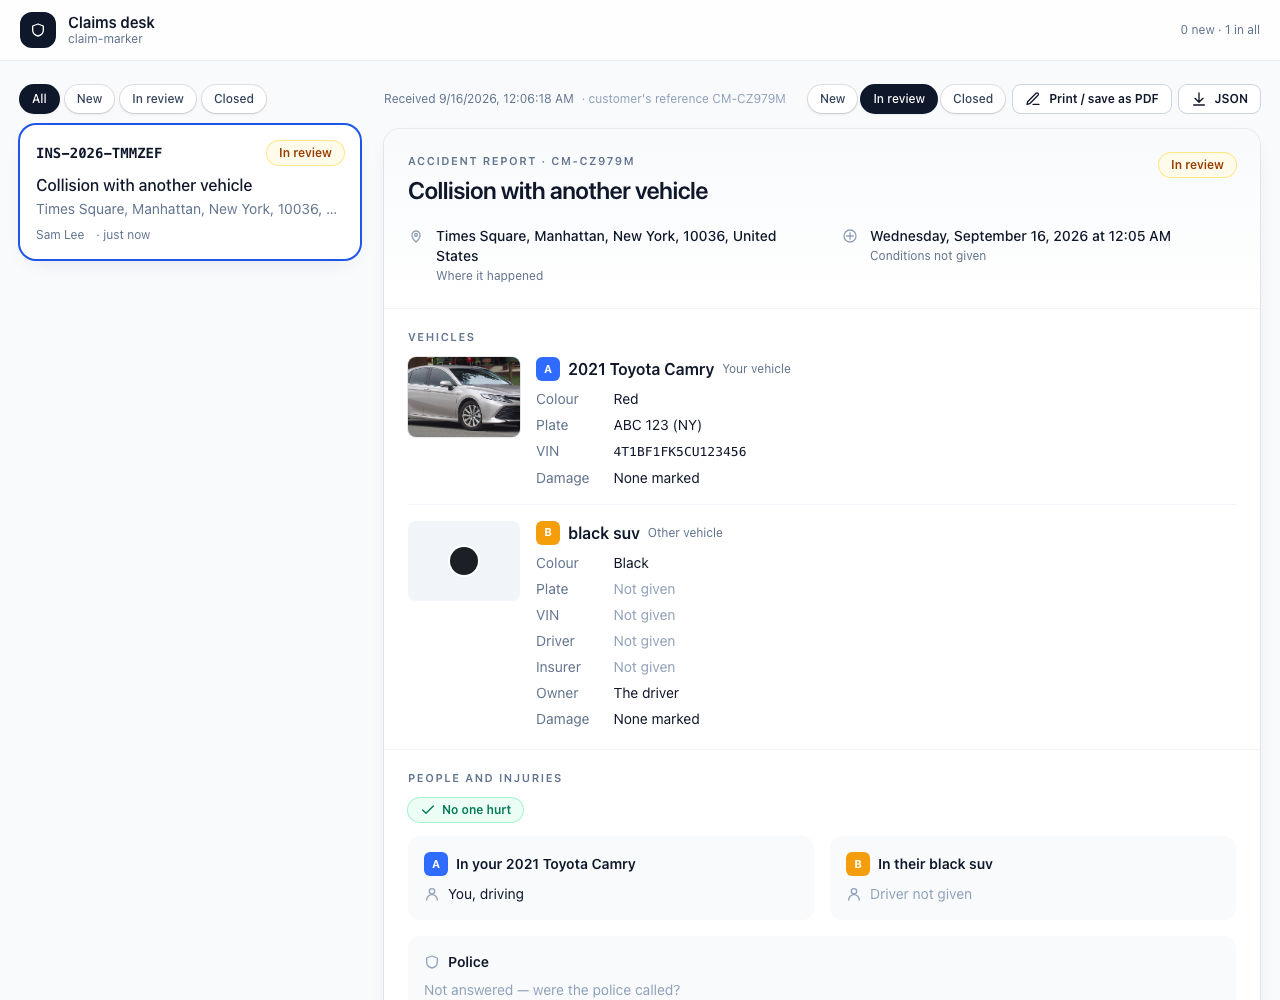
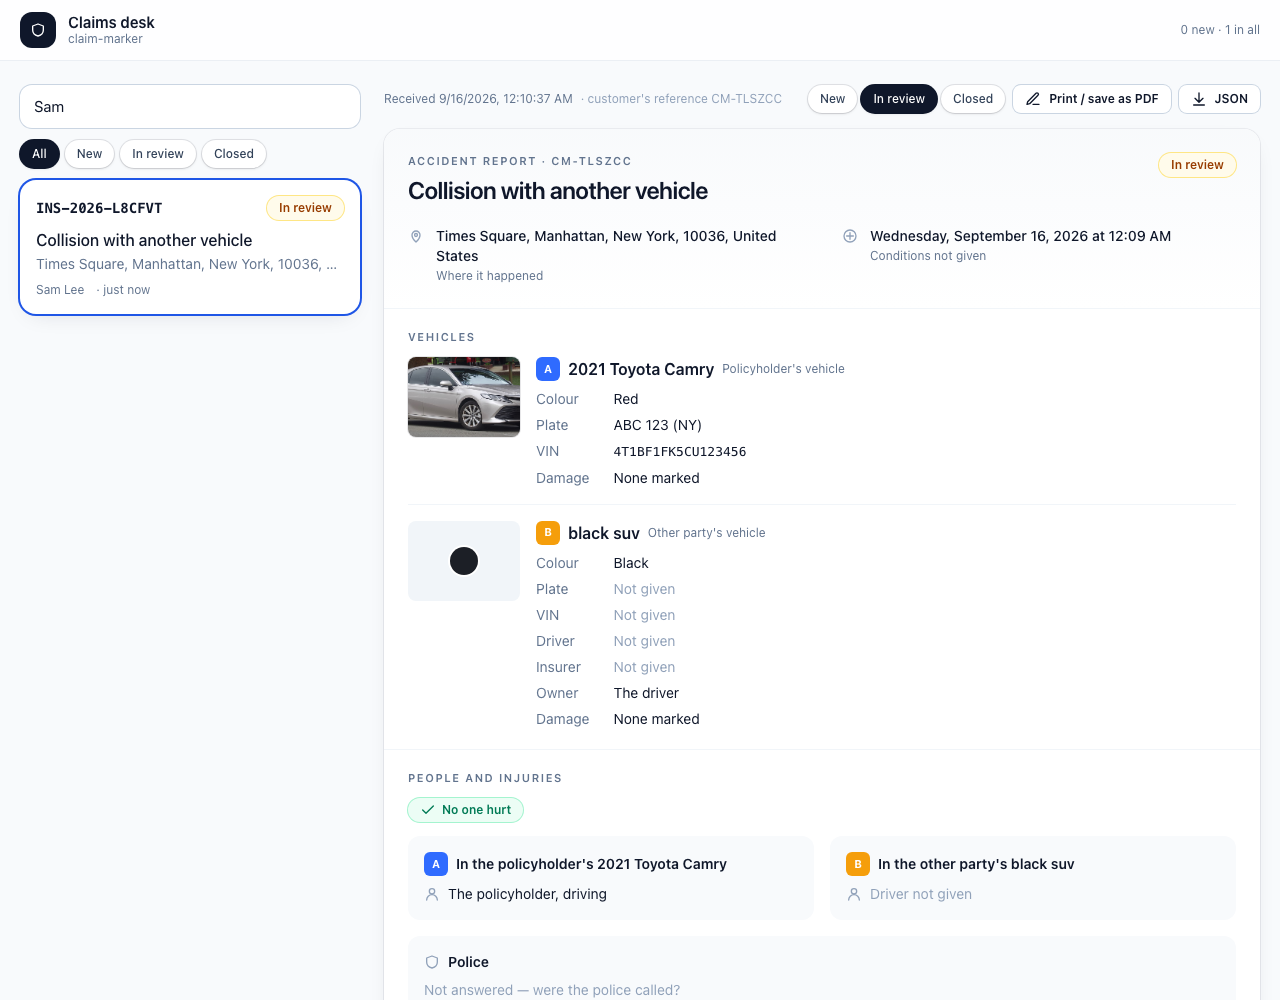
Desk voice: the same document, read by the other person
`claim/1` is read twice — once by the customer filling it in, once by the
adjuster working it — and until now it spoke to both as if they were the
customer: "You, driving your Camry", "Your vehicle". On an adjuster's screen
that is wrong twice over: the person is not in the room, and they are one of
several parties whose accounts are being weighed.

`src/claim/describe.ts` now takes a `Voice`, defaulting to 'customer'
everywhere, so the steps and the review page are untouched by construction.
`ReportDocument` takes `voice` and the claims desk is its one caller with
'desk', where "your"/"their" becomes "the policyholder's"/"the other party's"
and "You, driving" becomes "The policyholder, driving". `gaps()` deliberately
has no voice: it only ever runs on the customer's own review page.

The desk also gets a search box. An adjuster with a caller on the line has a
name, a plate or a street, almost never a reference, so it searches all of them
plus the customer's own reference; Enter opens the first match, Escape clears.
The server's `summarise()` gained `plates`, which is the only reason an inbox
row carries them.

diff --git a/src/app/ReportDocument.tsx b/src/app/ReportDocument.tsx
@@ -1,7 +1,7 @@
 import { Fragment, useRef, type ReactNode, type RefObject } from 'react'
 import { useClaim, type Step } from '../claim/store'
-import { KIND_INFO, ROLE_COLOR, type Claim, type ClaimVehicle, type Person } from '../claim/schema'
-import { conditionLabels, contactLine, driverName, driverShort, gaps, personLine, vehicleName, whose, yesNo } from '../claim/describe'
+import { KIND_INFO, ROLE_COLOR, newPerson, type Claim, type ClaimVehicle, type Person } from '../claim/schema'
+import { cap, conditionLabels, contactLine, driverName, driverShort, gaps, ownerLabel, personLine, vehicleName, whose, yesNo, type Voice } from '../claim/describe'
 import type { LngLat } from '../geo'
 import { MapScene, type MapSceneHandle } from '../map/MapScene'
 import { DamageMarker, type DamageMarkerHandle } from '../marker/DamageMarker'
@@ -110,6 +110,8 @@ export type ReportDocumentProps = {
   markers?: RefObject<Map<string, DamageMarkerHandle>>
   /** what an adjuster sees instead of the draft badge */
   badge?: ReactNode
+  /** who is reading: the customer ("your Camry") or the claims desk ("the policyholder's") */
+  voice?: Voice
 }
 
 /**
@@ -117,7 +119,7 @@ export type ReportDocumentProps = {
  * customer reads it on the review step with a way back into every section; the insurer
  * reads the same component on the claims desk with none.
  */
-export function ReportDocument({ claim, edit = false, mapRef, markers, badge }: ReportDocumentProps) {
+export function ReportDocument({ claim, edit = false, mapRef, markers, badge, voice = 'customer' }: ReportDocumentProps) {
   const ownMarkers = useRef(new Map<string, DamageMarkerHandle>())
   const marks = markers ?? ownMarkers
   const play = usePlayback(claim.vehicles)
@@ -219,7 +221,7 @@ export function ReportDocument({ claim, edit = false, mapRef, markers, badge }: 
             ]
             if (v.role !== 'insured') {
               rows.push(
-                ['Driver', given(driverName(d) ? `${driverName(d)}${d && contactLine(d) ? ` · ${contactLine(d)}` : ''}` : null)],
+                ['Driver', given(driverName(d, voice) ? `${driverName(d, voice)}${d && contactLine(d) ? ` · ${contactLine(d)}` : ''}` : null)],
                 ['Insurer', given(v.insurer ? `${v.insurer}${v.policy ? `, policy ${v.policy}` : ''}` : null)],
                 ['Owner', v.owner || 'The driver'],
               )
@@ -240,7 +242,7 @@ export function ReportDocument({ claim, edit = false, mapRef, markers, badge }: 
                   <div className="mb-2 flex flex-wrap items-center gap-2">
                     <Tag v={v} />
                     <span className="font-semibold">{vehicleName(v)}</span>
-                    <span className="text-xs text-slate-500">{v.role === 'insured' ? 'Your vehicle' : 'Other vehicle'}</span>
+                    <span className="text-xs text-slate-500">{ownerLabel(v, voice)}</span>
                   </div>
                   <Rows items={rows} />
                 </div>
@@ -271,7 +273,7 @@ export function ReportDocument({ claim, edit = false, mapRef, markers, badge }: 
               <div key={v.id} className="rounded-xl bg-slate-50 p-4">
                 <div className="mb-2 flex items-center gap-2 text-sm font-semibold">
                   <Tag v={v} />
-                  In {whose(v)} {vehicleName(v)}
+                  In {whose(v, voice)} {vehicleName(v)}
                 </div>
                 <ul className="space-y-2 text-sm">
                   <li className="flex items-start gap-2">
@@ -281,12 +283,12 @@ export function ReportDocument({ claim, edit = false, mapRef, markers, badge }: 
                     <span>
                       {d ? (
                         <>
-                          {driverShort(d)}
+                          {driverShort(d, voice)}
                           {contactLine(d) && <span className="block text-xs text-slate-500">{contactLine(d)}</span>}
                           <Hurt p={d} />
                         </>
                       ) : v.role === 'insured' ? (
-                        'You, driving'
+                        driverShort({ ...newPerson('driver', v.id), self: true }, voice)
                       ) : (
                         <span className="text-slate-400">Driver not given</span>
                       )}
@@ -318,7 +320,7 @@ export function ReportDocument({ claim, edit = false, mapRef, markers, badge }: 
                       <Icon.person />
                     </span>
                     <span>
-                      {personLine(p, claim.vehicles)}
+                      {personLine(p, claim.vehicles, voice)}
                       {contactLine(p) && <span className="block text-xs text-slate-500">{contactLine(p)}</span>}
                       <Hurt p={p} />
                     </span>
@@ -374,7 +376,7 @@ export function ReportDocument({ claim, edit = false, mapRef, markers, badge }: 
                 .map((v) => (
                   <span key={v.id} className="inline-flex items-center gap-1.5">
                     <span className="size-2.5 rounded-sm" style={{ background: ROLE_COLOR[v.role] }} />
-                    {v.id.toUpperCase()} · {whose(v)} {vehicleName(v)}
+                    {v.id.toUpperCase()} · {whose(v, voice)} {vehicleName(v)}
                   </span>
                 ))}
               {claim.impact && (
@@ -411,7 +413,7 @@ export function ReportDocument({ claim, edit = false, mapRef, markers, badge }: 
                 <div className="p-4 pt-3 sm:pl-0">
                   <div className="mb-2 flex items-center gap-2 text-sm font-semibold">
                     <Tag v={v} />
-                    {whose(v) === 'your' ? 'Your' : 'Their'} {vehicleName(v)}
+                    {cap(whose(v, voice))} {vehicleName(v)}
                   </div>
                   <Marks v={v} />
                 </div>
@@ -445,7 +447,7 @@ export function ReportDocument({ claim, edit = false, mapRef, markers, badge }: 
           <div className="mt-5 grid gap-4 sm:grid-cols-2">
             <div className="rounded-xl bg-slate-50 p-4">
               <div className="mb-2 text-sm font-semibold">
-                {edit ? 'Your' : 'The'} {vehicleName(mine)} now
+                {cap(whose(mine, voice))} {vehicleName(mine)} now
               </div>
               <Rows
                 items={[

diff --git a/src/claim/describe.ts b/src/claim/describe.ts
@@ -2,28 +2,45 @@
  * How the report talks about its own contents — one place, so the people step, the review
  * and the summary an adjuster reads all say "Sam Lee, passenger in your 2022 Toyota Camry"
  * rather than each inventing a different fragment of it.
+ *
+ * Two voices, because the same document is read by two people. The customer is spoken to in
+ * the second person — "your Camry", "You, driving" — which is right on a form they are
+ * filling in and wrong on an adjuster's screen, where the person is not in the room and is
+ * one of several parties. `voice: 'desk'` says "the policyholder's Camry" instead. Every
+ * function defaults to `'customer'`, so the steps and the review are untouched; only
+ * `ReportDocument` with `voice="desk"` asks for the other one.
  */
 import { paintLabel } from '../vehicles/paint'
 import { VEHICLES } from '../zones'
 import { KIND_INFO, LIGHT_LABEL, type Claim, type ClaimVehicle, type Conditions, type Person } from './schema'
 
+/** who the sentence is being read by: the customer filling it in, or the desk reading it */
+export type Voice = 'customer' | 'desk'
+
+export const cap = (s: string) => (s ? s[0].toUpperCase() + s.slice(1) : s)
+
 /** "2022 Toyota Camry", or "red sedan" when the make is not known */
 export const vehicleName = (v: ClaimVehicle): string =>
   [v.year, v.make, v.model].filter(Boolean).join(' ') || `${paintLabel(v.color).toLowerCase()} ${VEHICLES[v.body].label.toLowerCase()}`
 
-/** "your" for the customer's vehicle, "their" for anyone else's */
-export const whose = (v: ClaimVehicle) => (v.role === 'insured' ? 'your' : 'their')
+/** "your" / "their" to the customer, "the policyholder's" / "the other party's" to the desk */
+export const whose = (v: ClaimVehicle, voice: Voice = 'customer') =>
+  voice === 'desk' ? (v.role === 'insured' ? "the policyholder's" : "the other party's") : v.role === 'insured' ? 'your' : 'their'
+
+/** the tag beside a vehicle's name in a list */
+export const ownerLabel = (v: ClaimVehicle, voice: Voice = 'customer') =>
+  voice === 'desk' ? (v.role === 'insured' ? "Policyholder's vehicle" : "Other party's vehicle") : v.role === 'insured' ? 'Your vehicle' : 'Other vehicle'
 
 /** what goes in the name when the other driver drove off */
 export const UNKNOWN_DRIVER = 'Unknown — left the scene'
 
 /** one line naming a person by what they were doing there */
-export function personLine(p: Person, vehicles: ClaimVehicle[]): string {
+export function personLine(p: Person, vehicles: ClaimVehicle[], voice: Voice = 'customer'): string {
   const v = p.vehicle ? vehicles.find((x) => x.id === p.vehicle) : undefined
-  const car = v ? `${whose(v)} ${vehicleName(v)}` : 'a vehicle'
+  const car = v ? `${whose(v, voice)} ${vehicleName(v)}` : 'a vehicle'
   switch (p.role) {
     case 'driver':
-      if (p.self) return `You, driving ${car}`
+      if (p.self) return voice === 'desk' ? `The policyholder, driving ${car}` : `You, driving ${car}`
       if (p.name === UNKNOWN_DRIVER) return `The driver of ${car} — unknown, they left the scene`
       return p.name ? `${p.name}, driving ${car}` : `The driver of ${car}`
     case 'passenger':
@@ -36,14 +53,15 @@ export function personLine(p: Person, vehicles: ClaimVehicle[]): string {
 }
 
 /** the driver inside a group already headed by the vehicle: "You, driving", "Dana Quinn, driving" */
-export function driverShort(p: Person): string {
-  if (p.self) return 'You, driving'
+export function driverShort(p: Person, voice: Voice = 'customer'): string {
+  if (p.self) return voice === 'desk' ? 'The policyholder, driving' : 'You, driving'
   if (p.name === UNKNOWN_DRIVER) return 'The driver — unknown, they left the scene'
   return p.name ? `${p.name}, driving` : 'The driver — name not given'
 }
 
 /** the driver's name for a label/value row: the name, or why there is none */
-export const driverName = (p: Person | undefined): string | null => (!p ? null : p.self ? 'You' : p.name === UNKNOWN_DRIVER ? 'Unknown — left the scene' : p.name || null)
+export const driverName = (p: Person | undefined, voice: Voice = 'customer'): string | null =>
+  !p ? null : p.self ? (voice === 'desk' ? 'The policyholder' : 'You') : p.name === UNKNOWN_DRIVER ? 'Unknown — left the scene' : p.name || null
 
 /** phone and licence, whichever were given */
 export const contactLine = (p: Person): string => [p.phone, p.licence && `licence ${p.licence}`].filter(Boolean).join(' · ')
@@ -55,7 +73,8 @@ export type Gap = { text: string; step: 'where' | 'vehicles' | 'people' | 'scene
 
 /**
  * What an adjuster would ring up to ask about, in the order they would ask. None of these
- * blocks sending — a report with gaps beats no report — but each is a call saved.
+ * blocks sending — a report with gaps beats no report — but each is a call saved. Second
+ * person throughout: this only ever runs for the customer, on their own review page.
  */
 export function gaps(claim: Claim): Gap[] {
   const out: Gap[] = []
@@ -74,8 +93,6 @@ export function gaps(claim: Claim): Gap[] {
   if (!claim.reporter.phone.trim() && !claim.reporter.email.trim()) out.push({ text: 'A phone number or email so we can reach you', step: 'review' })
   return out
 }
-
-const cap = (s: string) => (s ? s[0].toUpperCase() + s.slice(1) : s)
 
 /** the conditions as short readable labels: "Rain", "Wet road", "Dark, street lights on" */
 export function conditionLabels(c: Conditions): string[] {

diff --git a/src/adjuster/Desk.tsx b/src/adjuster/Desk.tsx
@@ -37,7 +37,19 @@ type Receipt = {
   receivedAt: string
   status: Status
   files: Record<string, string>
-  summary: { kind: Claim['incident']['kind']; at: string; address: string; reporter: string; vehicles: number; hurt: number; damaged: number; photos: number; drivable: boolean | null }
+  summary: {
+    kind: Claim['incident']['kind']
+    at: string
+    address: string
+    reporter: string
+    vehicles: number
+    /** the plates on the report, so the desk can find it the way a caller names it */
+    plates?: string[]
+    hurt: number
+    damaged: number
+    photos: number
+    drivable: boolean | null
+  }
 }
 
 const ago = (iso: string) => {
@@ -61,6 +73,7 @@ export function Desk() {
   const [claims, setClaims] = useState<Receipt[] | null>(null)
   const [error, setError] = useState<string | null>(null)
   const [filter, setFilter] = useState<Status | 'all'>('all')
+  const [query, setQuery] = useState('')
   const [ref, setRef] = useState<string | null>(() => window.location.hash.replace(/^#\/?/, '') || null)
   const [open, setOpen] = useState<{ receipt: Receipt; claim: Claim } | null>(null)
 
@@ -137,7 +150,11 @@ export function Desk() {
     a.click()
   }
 
-  const rows = (claims ?? []).filter((c) => filter === 'all' || c.status === filter)
+  // a caller says a name, a plate or a street, almost never a reference; all of them search
+  const q = query.trim().toLowerCase()
+  const matches = (c: Receipt) =>
+    !q || [c.reference, c.clientReference, c.summary.reporter, c.summary.address, ...(c.summary.plates ?? [])].some((s) => s?.toLowerCase().includes(q))
+  const rows = (claims ?? []).filter((c) => (filter === 'all' || c.status === filter) && matches(c))
   const showing = open && open.receipt.reference === ref ? open : null
 
   return (
@@ -188,6 +205,18 @@ export function Desk() {
 
         <div className={`grid gap-6 ${showing ? 'lg:grid-cols-[340px_minmax(0,1fr)]' : ''}`}>
           <aside className={`${showing ? 'hidden lg:block' : ''} print:hidden`}>
+            <input
+              type="search"
+              className="input mb-3"
+              placeholder="Reference, name, address or plate"
+              aria-label="Search reports"
+              value={query}
+              onChange={(e) => setQuery(e.target.value)}
+              onKeyDown={(e) => {
+                if (e.key === 'Enter' && rows[0]) show(rows[0].reference)
+                if (e.key === 'Escape') setQuery('')
+              }}
+            />
             <div className="mb-3 flex flex-wrap gap-1.5">
               {(['all', ...STATUSES] as const).map((f) => (
                 <button key={f} className="chip" aria-pressed={filter === f} onClick={() => setFilter(f)}>
@@ -196,13 +225,21 @@ export function Desk() {
               ))}
             </div>
             {claims === null && !error && !askToken && <p className="text-sm text-slate-500">Loading…</p>}
-            {claims !== null && rows.length === 0 && <p className="text-sm text-slate-500">Nothing here yet. A report sent from the page lands in this list.</p>}
+            {claims !== null && rows.length === 0 && (
+              <p className="text-sm text-slate-500">
+                {q ? `Nothing matches “${query.trim()}”.` : 'Nothing here yet. A report sent from the page lands in this list.'}
+              </p>
+            )}
             <ul className={`space-y-2 ${showing ? '' : 'grid gap-3 space-y-0 sm:grid-cols-2 lg:grid-cols-3'}`}>
               {rows.map((c) => {
                 const on = c.reference === ref
                 return (
                   <li key={c.reference}>
-                    <button className={`card w-full p-4 text-left transition hover:-translate-y-0.5 hover:shadow-md ${on ? 'ring-2 ring-brand-600' : ''}`} onClick={() => show(c.reference)}>
+                    <button
+                      className={`card w-full p-4 text-left transition hover:-translate-y-0.5 hover:shadow-md ${on ? 'ring-2 ring-brand-600' : ''}`}
+                      aria-current={on ? 'true' : undefined}
+                      onClick={() => show(c.reference)}
+                    >
                       <div className="flex items-center justify-between gap-2">
                         <span className="font-mono text-sm font-semibold">{c.reference}</span>
                         <StatusPill status={c.status} />
@@ -249,7 +286,7 @@ export function Desk() {
                   </button>
                 </div>
               </div>
-              <ReportDocument claim={showing.claim} badge={<StatusPill status={showing.receipt.status} />} />
+              <ReportDocument claim={showing.claim} voice="desk" badge={<StatusPill status={showing.receipt.status} />} />
             </section>
           )}
         </div>

diff --git a/test/describe.test.ts b/test/describe.test.ts
@@ -1,5 +1,5 @@
 import { describe, expect, it } from 'vitest'
-import { conditionLabels, contactLine, driverName, driverShort, gaps, personLine, vehicleName, UNKNOWN_DRIVER } from '../src/claim/describe'
+import { conditionLabels, contactLine, driverName, driverShort, gaps, ownerLabel, personLine, vehicleName, whose, UNKNOWN_DRIVER } from '../src/claim/describe'
 import { emptyClaim, newPerson, newVehicle, type Claim } from '../src/claim/schema'
 
 const mine = { ...newVehicle('a', 'insured', 'sedan', '#b91c1c'), make: 'Toyota', model: 'Camry', year: 2022 }
@@ -66,6 +66,33 @@ describe('how the report names things', () => {
     const hail: Claim = { ...c, incident: { ...c.incident, kind: 'weather' }, vehicles: [mine] }
     expect(gaps(hail)[0]).toEqual({ text: 'Say what happened in your own words', step: 'damage' })
     expect(gaps(hail).some((g) => /driving/.test(g.text))).toBe(false)
+  })
+
+  it('speaks to the desk about a policyholder, not to a customer about themselves', () => {
+    const self = { ...newPerson('driver', 'a'), self: true }
+    const other = { ...newPerson('driver', 'b'), name: 'Dana Quinn' }
+
+    expect(whose(mine, 'desk')).toBe("the policyholder's")
+    expect(whose(theirs, 'desk')).toBe("the other party's")
+    expect(ownerLabel(mine, 'desk')).toBe("Policyholder's vehicle")
+    expect(ownerLabel(theirs, 'desk')).toBe("Other party's vehicle")
+    expect(personLine(self, vehicles, 'desk')).toBe("The policyholder, driving the policyholder's 2022 Toyota Camry")
+    expect(personLine(other, vehicles, 'desk')).toBe("Dana Quinn, driving the other party's black suv")
+    expect(personLine({ ...newPerson('passenger', 'a'), name: 'Sam Lee' }, vehicles, 'desk')).toBe("Sam Lee, passenger in the policyholder's 2022 Toyota Camry")
+    expect(driverShort(self, 'desk')).toBe('The policyholder, driving')
+    expect(driverShort(other, 'desk')).toBe('Dana Quinn, driving')
+    expect(driverName(self, 'desk')).toBe('The policyholder')
+    expect(driverName(other, 'desk')).toBe('Dana Quinn')
+    // someone who is not the customer reads the same whichever voice is asked for
+    expect(driverShort({ ...newPerson('driver', 'b'), name: UNKNOWN_DRIVER }, 'desk')).toBe('The driver — unknown, they left the scene')
+    expect(personLine(newPerson('witness'), vehicles, 'desk')).toBe('A witness')
+
+    // and the customer's own voice is exactly what it was
+    expect(whose(mine)).toBe('your')
+    expect(ownerLabel(mine)).toBe('Your vehicle')
+    expect(personLine(self, vehicles)).toBe('You, driving your 2022 Toyota Camry')
+    expect(driverShort(self)).toBe('You, driving')
+    expect(driverName(self)).toBe('You')
   })
 
   it('conditions as labels, skipping what was not answered', () => {

diff --git a/docs/spec-app.md b/docs/spec-app.md
@@ -356,6 +356,31 @@ not built or run here: Docker is not installed on the machine this was written o
 image is unverified and the server changes are proven by `scripts/integration-smoke.mjs`
 instead.
 
+## Two voices
+
+The same `claim/1` document is read by two people, and until now it spoke to both as if they
+were the customer: "You, driving your Camry", "Your vehicle". On an adjuster's screen that is
+wrong twice over — the person is not in the room, and they are one of several parties whose
+accounts the adjuster is weighing.
+
+`src/claim/describe.ts` now takes a `Voice`. Every function defaults to `'customer'`, so the
+steps and the review page are untouched by construction; `ReportDocument` takes `voice` and
+the desk is the one caller that passes `'desk'`. In that voice "your"/"their" becomes "the
+policyholder's"/"the other party's", "You, driving" becomes "The policyholder, driving", and
+the tag beside a vehicle becomes "Policyholder's vehicle". `gaps()` stays second person: it
+only ever runs on the customer's own review page.
+
+It stayed in `describe.ts` rather than becoming a prop drilled through the document because
+that is the rule the project already had — every sentence naming a person, a vehicle or a
+condition comes from one file — and the voice is exactly the kind of thing that would
+otherwise be re-decided inline in four places and disagree in a fifth.
+
+**Search on the desk** is the other half: an adjuster with a caller on the line has a name, a
+plate or a street, almost never a reference. One `<input type="search">` over the reference,
+the customer's reference, the reporter, the address and the plates, Enter opening the first
+match, Escape clearing. The server's `summarise()` gained `plates` for it, which is the only
+reason the inbox row carries them.
+
 ## The assistant
 
 Two directions across one endpoint, both optional and both off unless `VITE_ASSIST_URL` is

diff --git a/CLAUDE.md b/CLAUDE.md
@@ -18,7 +18,7 @@ changing behaviour it describes.
 ```bash
 npm run dev            # vite, http://localhost:5173 (the claims desk is /adjuster.html)
 npm run lint           # oxlint — must be silent, warnings included (react-compiler-style rules are on)
-npm test               # vitest, ~241 tests across 17 files
+npm test               # vitest, ~242 tests across 17 files
 npm run build          # tsc -b, the static site (two pages) into dist/, and dist/lib/claim.js for the server
 npm run server         # the whole product on 8788: the page, the desk and the API; needs a build
 ```
@@ -195,6 +195,12 @@ name `UNKNOWN_DRIVER`, not a flag. Photos are downscaled to 1280 px JPEG before 
 The attestation's `at` is stamped only at send. Send is disabled until agreed and signed.
 Every sentence that names a person, a vehicle or a condition comes from `src/claim/describe.ts`
 (`personLine`, `vehicleName`, `conditionLabels`, `gaps`); do not compose those inline in a step.
+
+**Those sentences have two voices.** `describe.ts` takes a `Voice`, defaulting to `'customer'`
+everywhere, so the steps and the review are second person as they were; `ReportDocument
+voice="desk"` — which only `src/adjuster/Desk.tsx` passes — turns "your Camry" into "the
+policyholder's Camry" and "You, driving" into "The policyholder, driving". `gaps()` has no
+voice on purpose: it only runs on the customer's own review page.
 
 **Schemas are versioned and frozen.** `claim/1` embeds the `claim-marker/1` damage shape. Both
 guarantee `export → load → export` is byte-identical, which is why coordinates round on the way
